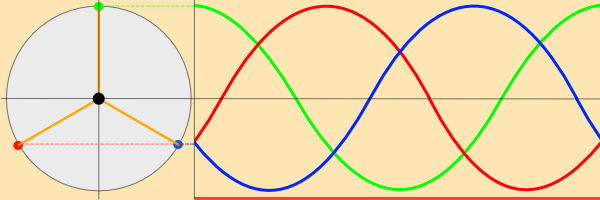
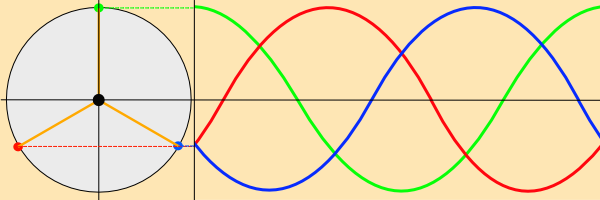
popravljena rotacija

diff --git a/MC Nikola Tesla/motor.m b/MC Nikola Tesla/motor.m
@@ -21,7 +21,7 @@
 
 -(void) viewDidAppear:(BOOL)animated
 {
-    n=0;
+    
     kutp=0;
     pomak=0.1;
     
@@ -148,7 +148,7 @@
                               [UIImage imageNamed: @"trigonom23"],
                               [UIImage imageNamed: @"trigonom24"],
                              nil];
-    trigonom.animationDuration=5.0;
+    trigonom.animationDuration=2.5;
     trigonom.animationRepeatCount=0;
     [trigonom startAnimating];
     trigonom.layer.shadowColor = [UIColor blackColor].CGColor;
@@ -156,46 +156,40 @@
     trigonom.layer.shadowOpacity = 0.6;
     trigonom.layer.shadowRadius = 1.0;
     
-    
-    [self napraviPolja];
-    [self startM];
-    [self startR];
     [self.view bringSubviewToFront:stator];
     [self.view bringSubviewToFront:navBar];
+    [self napraviPolja];
+    //[self startM];
+    [self startR];
+    
     
 
 }
 
 -(void) napraviPolja{
-    double a = 0;
+    double a = M_PI/6;
     double r = stator.frame.size.width/1.8; //3.1;
     zarulje = [[NSMutableArray alloc]init];
-    for (int i = 0; i<8; i++) {
-        UIImageView *polje =[[UIImageView alloc]init];
-        polje.image =[UIImage imageNamed:@"zarulja0000"];
-        polje.frame = CGRectMake(0, 0, velicina.width/10, velicina.width/10);
-        polje.center = CGPointMake(stator.center.x+ r*cos(a), stator.center.y+ r*sin(a));
-        polje.transform = CGAffineTransformMakeRotation(a+M_PI/2);
-        [self.view addSubview:polje];
-        a+=M_PI/4;
-        [zarulje addObject:polje];
+    for (int i = 0; i<6; i++) {
+        UIImageView *zar0 =[[UIImageView alloc]init];
+        zar0.image =[UIImage imageNamed:@"zarulja0000"];
+        zar0.frame = CGRectMake(0, 0, velicina.width/10, velicina.width/10);
+        zar0.center = CGPointMake(stator.center.x+ r*cos(a), stator.center.y+ r*sin(a));
+        zar0.transform = CGAffineTransformMakeRotation(a+M_PI/2);
+        [self.view addSubview:zar0];
+        UIImageView *zar1 =[[UIImageView alloc]init];
+        zar1.image =[UIImage imageNamed:@"zarulja0010"];
+        zar1.frame = CGRectMake(0, 0, velicina.width/10, velicina.width/10);
+        zar1.center = CGPointMake(stator.center.x+ r*cos(a), stator.center.y+ r*sin(a));
+        zar1.transform = CGAffineTransformMakeRotation(a+M_PI/2);
+        [self.view addSubview:zar1];
+        [self.view bringSubviewToFront:zar1];
+        a+=M_PI/3;
+        [zarulje addObject:zar1];
     }
 
 }
 
--(void)startM{
-    
-    if(!timerM)
-    { timerM = [NSTimer scheduledTimerWithTimeInterval:0.3
-                                                target:self
-                                              selector:@selector(vrti)
-                                              userInfo:nil
-                                               repeats:YES];
-        
-    }
-    
-    
-}
 -(void)startR{
     
     if(!timerR)
@@ -210,32 +204,6 @@
     
 }
 
-
--(void) vrti{
-
-    n++;
-    int n2;
-    if(n>7) n=0;
-    UIImageView *zarulja =(UIImageView *)[zarulje objectAtIndex:0];
-    for (int i=0; i<8; i++) {
-        zarulja =(UIImageView *)[zarulje objectAtIndex:i];
-        zarulja.image = [UIImage imageNamed:@"zarulja0000"];
-    }
-    zarulja =(UIImageView *)[zarulje objectAtIndex:n];
-    zarulja.image = [UIImage imageNamed:@"zarulja0010"];
-    n2=n+3;
-    if(n2>7) n2-=8;
-    zarulja =(UIImageView *)[zarulje objectAtIndex:n2];
-    zarulja.image = [UIImage imageNamed:@"zarulja0010"];
-    n2=n+5;
-    if(n2>7) n2-=8;
-    zarulja =(UIImageView *)[zarulje objectAtIndex:n2];
-    zarulja.image = [UIImage imageNamed:@"zarulja0010"];
-
-    //[self rotacija];
-
-}
-
 -(void)rotacija{
     kutp+=pomak;
     CGAffineTransform rotate1 = CGAffineTransformMakeRotation(kutp);
@@ -245,6 +213,26 @@
     [osovinaK1 setTransform:CGAffineTransformMakeRotation(sin(kutp)/2)];
     [osovinaK2 setTransform:CGAffineTransformMakeRotation(sin(kutp+2.09)/2)];
     [osovinaK3 setTransform:CGAffineTransformMakeRotation(sin(kutp+4.18)/2)];
+    [self vrti];
+}
+
+-(void) vrti{
+    
+    for (int i = 0; i<6; i++) {
+        UIImageView *zarulja = [zarulje objectAtIndex:i];
+        double alfa = sin(-kutp+M_PI/3*i);
+        if(alfa > 0.5 )
+        {
+            zarulja.alpha = 1.0;
+        }
+        else
+        {
+            zarulja.alpha = 0.0;
+        }
+        
+        
+        
+    }
     
 }
 

diff --git a/MC Nikola Tesla/motor.h b/MC Nikola Tesla/motor.h
@@ -26,8 +26,6 @@
     CGSize velicina;
     
     NSMutableArray *zarulje;
-    int n;
-    NSTimer * timerM;
     NSTimer * timerR;
     double kutp;
     double pomak;
